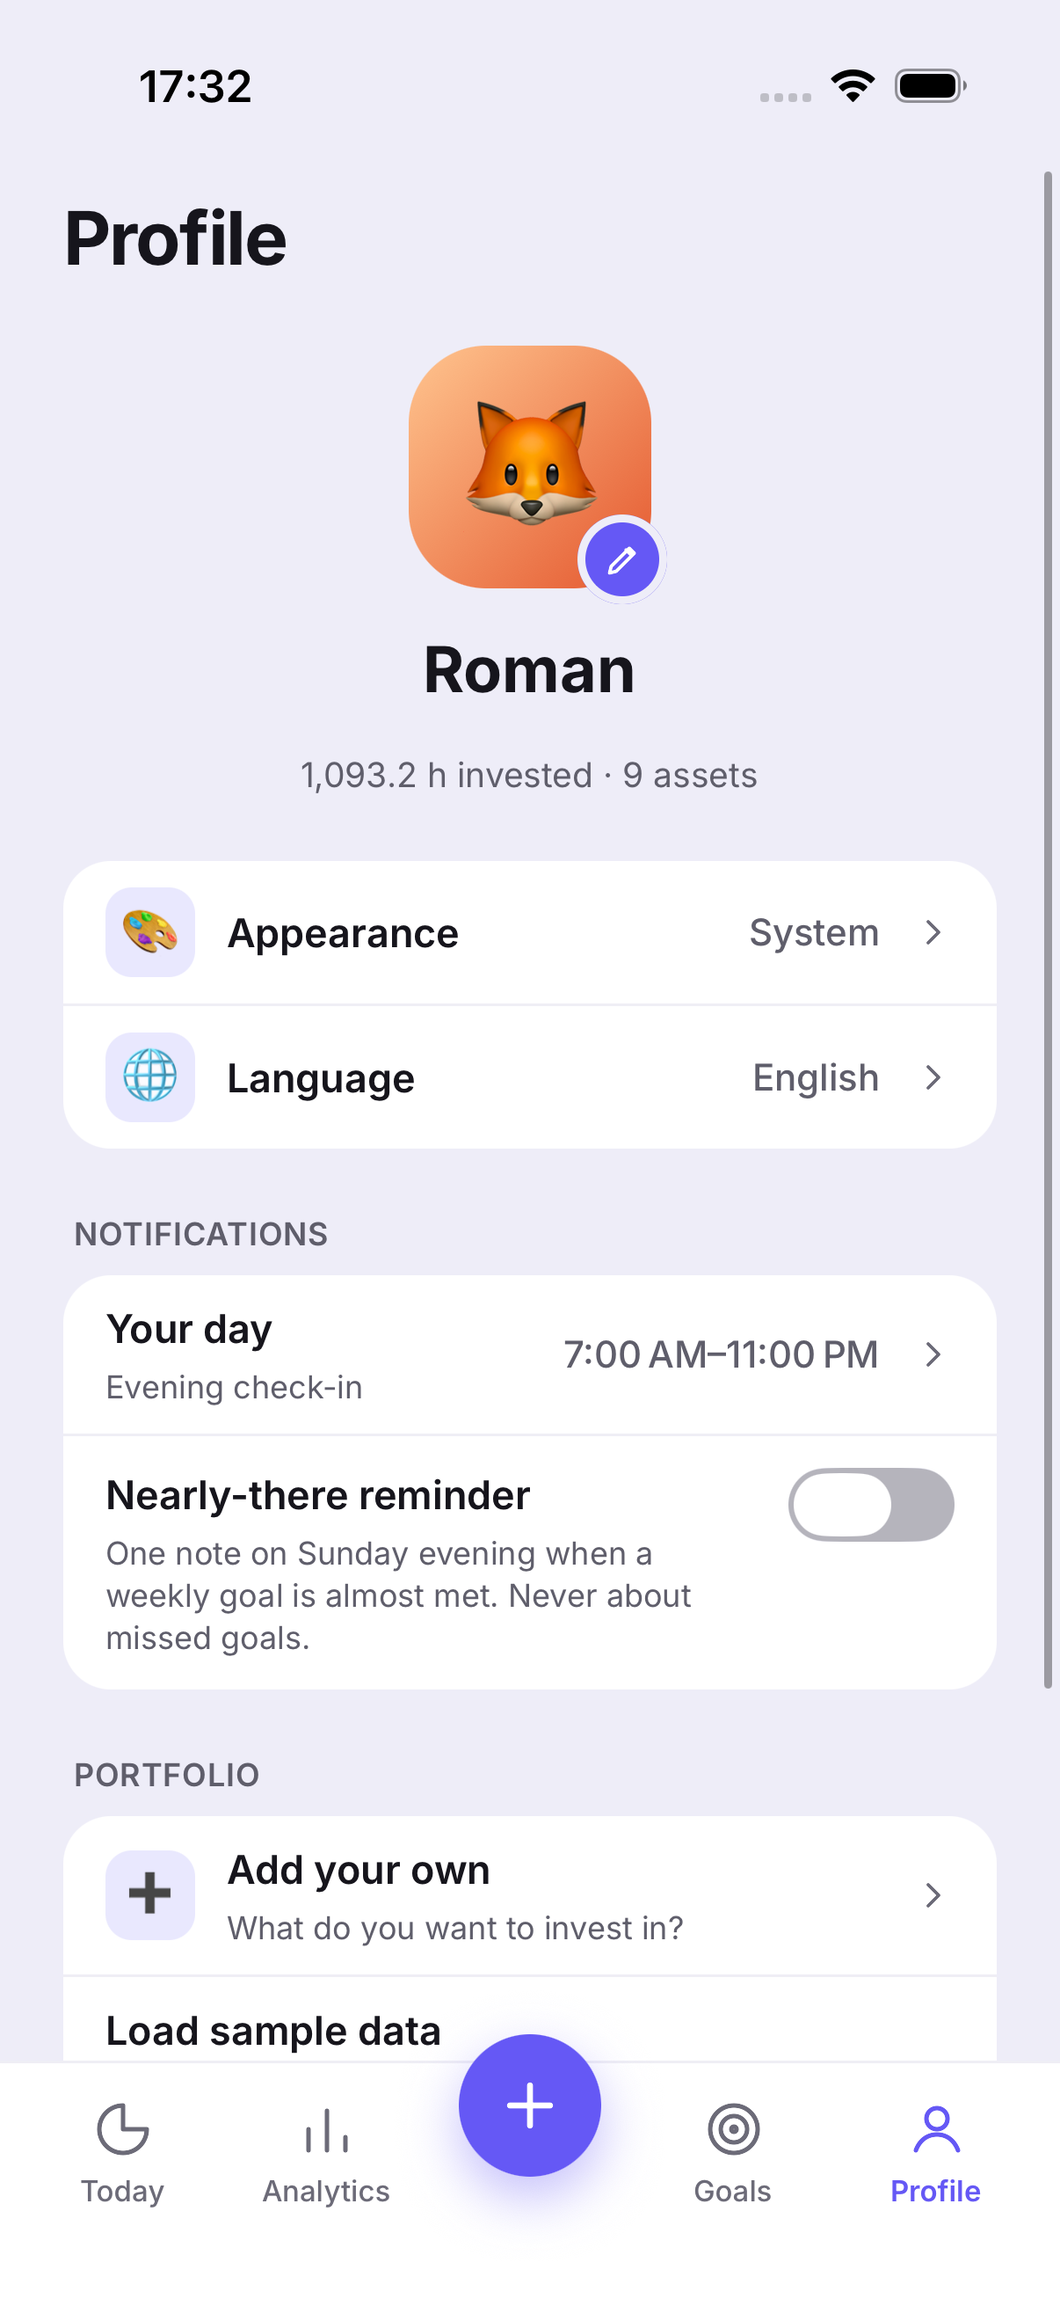
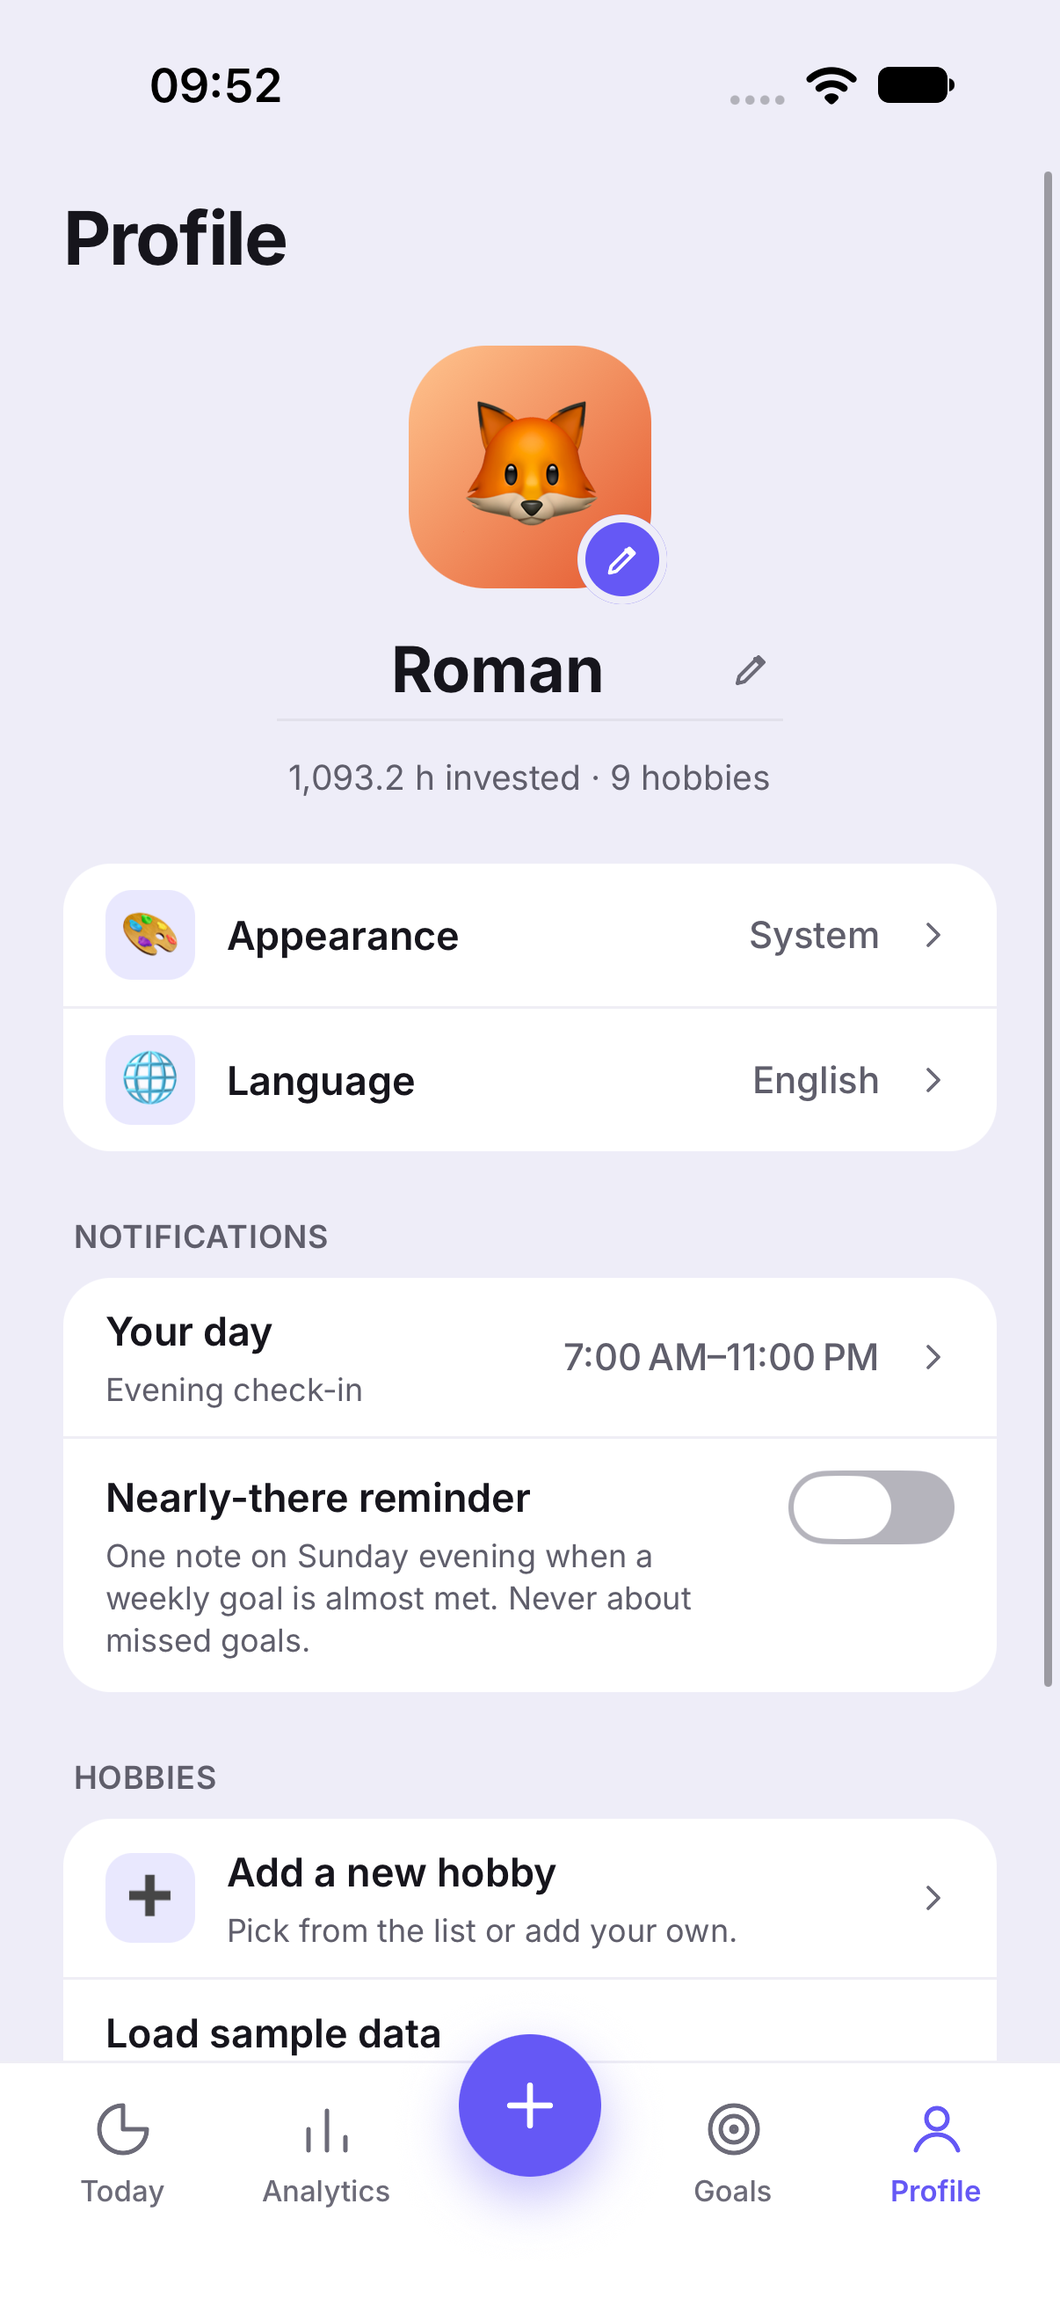
README refresh: new screenshots, achievements, planner as it is now
Every screenshot retaken on the iPhone 18 Pro simulator; new ones for
the today sheet, Achievements, a badge and a week recap; the congrats
GIF recorded again. The text follows the app: the plan is proposed
straight away with drag and drop and optional free time, goals are pace
bars, hobbies instead of assets, iOS and Android.

Maestro: start-over.yaml resets a set-up app; onboarding.yaml walks the
goal wheel and no longer looks for the scene picker; tour.yaml opens the
planner by deep link (Edit plan on Goals now edits in place) and covers
the today sheet and Achievements. scripts/readme-shots.sh runs the
flows, gathers the shots (Maestro 2 writes them under its own output
dir) and renders the GIF; CLAUDE.md and PLAN.md say so.

diff --git a/README.md b/README.md
@@ -7,7 +7,7 @@
 <p align="center">
   <b>Your time, invested.</b><br>
   A time portfolio for people with many hobbies. Every hobby is an asset, hours are the currency, and rest counts as an investment too.<br>
-  <sub>iOS · English, Українська, Polski · local-first, no account</sub>
+  <sub>iOS and Android · English, Українська, Polski · local-first, no account</sub>
 </p>
 
 <p align="center">
@@ -35,37 +35,39 @@ Hourfolio does the opposite. It shows how your time is spread across everything 
 | **Momentum** | Recent activity on a 0–100 scale. It fades during a break but never drops below 20, and it decays at each hobby's own rhythm (daily, a few times a week, weekly, whenever). |
 | **Recovery** | In every portfolio. Rest days show up as their own thing, not as gaps. |
 | **Energy balance** | Your time split into body, creative, mind and recovery. |
-| **Weekly goals** | Optional. Progress is drawn as a small scene, like a tree growing or a dog running to its bone, and it only ever moves forward. |
-| **Weekly plan** | Optional. Spreads your weekly goals over the days you are free, so you know what to do when. |
+| **Weekly goals** | Optional. Each goal shows the week as a pace bar: seven day segments and a thin marker for an even pace today. Missing one changes nothing. |
+| **Weekly plan** | Optional. The week is proposed from your goals straight away, so you know what to do when. Drag a session to another day. |
+| **Achievements** | Every finished week, and badges such as "Rest counts" or "100 hours invested". A badge, once earned, stays. |
 
 ## A tour
 
 ### Today and this week
-The first screen shows today and this week, not a chart. It has what you did today, a row of one-tap tiles for what you usually do, your plan for the week (a progress bar, hours for each day and today's sessions as tiles in each hobby's color), and every asset with its capital. Weekly goals live on the Goals tab. On an empty morning it asks "What are you investing in today?" instead of showing a zero.
+The first screen shows today and this week, not a chart. The Today card has what you did today against today's plan, hobby by hobby; tap it to see every entry, make one longer or shorter, or delete it. Below are one-tap tiles for what you usually do, your plan for the week (a progress bar, hours for each day and today's sessions as tiles in each hobby's color), and every hobby with its capital. A button opens last week's recap. Weekly goals live on the Goals tab as pace bars. On an empty morning it asks "What are you investing in today?" instead of showing a zero.
 
 <p align="center">
   <img src="docs/screenshots/today.png" width="200" alt="Today screen">
-  <img src="docs/screenshots/goals.png" width="200" alt="Goals: weekly scenes, the week's plan and milestone cards with capital and progress">
-  <img src="docs/screenshots/asset.png" width="200" alt="Asset detail: capital, momentum, hours per week">
+  <img src="docs/screenshots/today-modal.png" width="200" alt="Today's entries: each hobby with its sessions, minus and plus to adjust, and what is still planned">
+  <img src="docs/screenshots/goals.png" width="200" alt="Goals: weekly goals as pace bars, achievements and the week's plan">
+  <img src="docs/screenshots/asset.png" width="200" alt="Hobby detail: capital, momentum, hours per week">
 </p>
 
 ### Plan your week
-Tell the app how much time you can give each day and it spreads your weekly goals over those days. Say you want 5 hours of CrossFit, 3 of guitar and 2 of DJing, and weekends are busy: CrossFit goes on every weekday, the rest is mixed in around it, and something is planned each day. Free weekends get the longer sessions instead.
+Open the planner and the week is already laid out: your weekly goals spread over the days ahead, weekends lighter, something planned each day. Say you want 6 hours of coding, 4 of CrossFit and 3 of guitar: coding goes on most days and the rest is mixed in around it. There is nothing to fill in first.
 
 - **Sessions fit the activity:** reading splits into short 20–30 minute bites, a workout gets a longer block, and a big goal stretches the sessions rather than losing time.
-- **Rhythm:** the same asset isn't put on back-to-back days when it can be avoided. Each asset can be limited to some weekdays (CrossFit not on weekends) in its editor.
-- **Rest is optional:** add recovery minutes if you want them, or leave them out.
-- **Adjust before saving:** move a session a day earlier or later, or remove it.
-- **No guilt:** time that doesn't fit is just said plainly, and a missed session quietly moves on when you re-plan the rest of the week.
-- **Where it shows:** Today has the week as a strip with each day's hours, and today's sessions as tiles with a "Log" chip. Goals has the whole plan, with "Re-plan the rest" and "Edit plan" buttons. Without a plan, Today offers to make one. On a Sunday it plans the next week.
-- **Goals and plan stay in step:** after you change weekly goals, the app offers to re-plan the rest of the week.
+- **Rhythm:** the same hobby isn't put on back-to-back days when it can be avoided. Each hobby can be limited to some weekdays (CrossFit not on weekends) in its editor.
+- **Drag and drop:** drag a session by its grip to another day. The same hobby on one day adds up (30 m + 30 m = 1 h). Each session can be resized or removed, and each day has a + to put a hobby back on it.
+- **Free time is optional:** "Adjust free time" opens the hours each day has and how much rest to plan. Leave it closed and the plan decides.
+- **No guilt:** time that doesn't fit is just said plainly, on the plan and on Goals, and a missed session quietly moves on when you re-plan the rest of the week.
+- **Where it shows:** Today has the week as a strip with each day's hours, and today's sessions as tiles with a "Log" chip. Goals has the whole plan, with "Edit plan" and "Plan next week" buttons. Without a plan, Today offers to make one. From Friday it offers next week.
+- **Goals and plan stay in step:** after you change weekly goals, the app offers to re-plan the rest of the week. A session counts as done once its time is logged that day.
 - **Reminder (optional):** one note in the late afternoon about what is planned and not done yet, for today and tomorrow.
 
 <p align="center">
   <img src="docs/screenshots/today-plan.png" width="200" alt="Today: the week as a strip with the sessions planned for today">
-  <img src="docs/screenshots/plan-free.png" width="200" alt="Plan your week: free time for each day">
-  <img src="docs/screenshots/plan-result.png" width="200" alt="The plan: sessions spread over the week, each can be moved or removed">
-  <img src="docs/screenshots/goals-plan.png" width="200" alt="Goals: the whole week's plan with a re-plan button">
+  <img src="docs/screenshots/plan-result.png" width="200" alt="The plan: sessions spread over the week, each one can be dragged to another day, resized or removed">
+  <img src="docs/screenshots/plan-free.png" width="200" alt="Adjust free time: hours for each day and rest, under the plan">
+  <img src="docs/screenshots/goals-plan.png" width="200" alt="Goals: the whole week's plan with Edit plan and Plan next week">
 </p>
 
 ### Analytics
@@ -80,21 +82,32 @@ The charts live one tab over:
 </p>
 
 ### Goals you want to share
-Finishing a weekly goal opens a congrats screen with confetti and a share card, rendered as a PNG for Telegram, Threads, Instagram or anywhere else. There's also a "My week" card.
+Finishing a weekly goal opens a congrats screen with confetti and a share card, rendered as a PNG for Telegram, Threads, Instagram or anywhere else. There's also a "My week" card, from Goals or from any week's recap.
 
 <p align="center">
   <img src="docs/screenshots/goal-met.gif" width="200" alt="Congrats animation">
   <img src="docs/screenshots/share-week.png" width="200" alt="Share my week card">
 </p>
 
+### Achievements
+Weeks are the unit of progress. Goals has a slim Achievements card, and behind it every finished week with your time in it, grouped by month, and a shelf of badges: eight fixed ones (first hour, first full week, 10 and 20 hours in a week, rest on three days of a week, every hobby in one week, a plan done start to finish, 100 hours invested) plus hour marks for each hobby (50, 200, 500 and 1000 h). A week opens its recap: time invested, goals met, planned sessions done, the hobby with most time, rest days, the badges earned that week, and a Share button. A badge says how it was earned and links to its week.
+
+Badges still ahead are named and explained, with no countdown or progress bar. A badge once earned stays, whatever happens to the logs later. A short week reads "2 of 3", in grey, never red.
+
+<p align="center">
+  <img src="docs/screenshots/achievements.png" width="200" alt="Achievements: time over finished weeks, badges earned and still ahead, and every finished week">
+  <img src="docs/screenshots/badge.png" width="200" alt="A badge: how it was earned and the week it belongs to">
+  <img src="docs/screenshots/week.png" width="200" alt="A week's recap: time invested, goals met, sessions done, badges earned">
+</p>
+
 ### Make it yours
 - **Profile:** a preset character or your own photo as your picture.
 - **Appearance:**
   - light, dark or system mode;
-  - any accent color from the full iOS color picker;
+  - any accent color from the system color picker;
   - any page color, with text and cards adjusting to stay readable;
   - eight background patterns.
-- **Assets:** each one can show an icon, an emoji (a full picker with search in all three languages) or a photo of your own guitar.
+- **Hobbies:** each one can show an icon, an emoji (a full picker with search in all three languages) or a photo of your own guitar.
 - **Units:** hours, minutes and days keep their colors whatever you pick.
 
 <p align="center">
@@ -113,7 +126,7 @@ Holidays dress the app up. From mid-October the accent turns pumpkin, the scenes
 ### Onboarding and gentle reminders
 0. Three quick looks at the app after a few months of use: plan your week, see your progress, see your investment. Swipe through or skip.
 1. Pick from 35 activities or add your own.
-2. Tune each one: an optional weekly goal first (half-hour steps, with a live preview of its scene), then a picture (an icon from the app, an emoji or your own photo), color, energy type and how often you do it. "Set up the rest later" skips to the next step. Every hobby starts at zero hours.
+2. Tune each one: an optional weekly goal first (an hours-and-minutes picker), then a picture (an icon from the app, an emoji or your own photo), color, energy type and how often you do it. "Set up the rest later" skips to the next step. Every hobby starts at zero hours.
 3. Tell the app when your day starts and ends.
 4. Add a name, picture and color (optional).
 
@@ -133,7 +146,7 @@ The app starts in your phone's language (English if it isn't one of the three) a
 
 <p align="center">
   <img src="docs/screenshots/setup.png" width="180" alt="Setting up a hobby: picture, color, energy type and rhythm">
-  <img src="docs/screenshots/setup-goal.png" width="180" alt="Setting a weekly goal and choosing the tree scene">
+  <img src="docs/screenshots/setup-goal.png" width="180" alt="Setting a weekly goal: hours and minutes wheels">
   <img src="docs/screenshots/day.png" width="180" alt="Your day: wake and bed times, reminders">
   <img src="docs/screenshots/you.png" width="180" alt="Make it yours: name, picture, color">
 </p>
@@ -145,7 +158,8 @@ Expo SDK 57 · React Native 0.86 · expo-router · TypeScript (strict) · Restyl
 ```
 src/
   domain/      pure logic, unit-tested: growth (capital, momentum), stats, goals and scenes,
-               the weekly planner, the day and reminders, seasons, colors and contrast, emoji search
+               the weekly planner, the week recap and achievements, the day and reminders,
+               seasons, colors and contrast, emoji search
   store/       zustand stores persisted to MMKV
   i18n/        EN / UK / PL, checked for missing keys and plural forms
   theme/       buildTheme({ mode, accent, page }); fixed colors for hours, minutes and days
@@ -158,12 +172,13 @@ e2e/           Maestro flows, which also take the screenshots in this README
 
 ## Run it
 
-You need [mise](https://mise.jdx.dev) (it pins Node 22 and bun), Xcode and an iOS simulator. MMKV needs native code, so this runs as a dev build, not in Expo Go.
+You need [mise](https://mise.jdx.dev) (it pins Node 22 and bun) and Xcode with an iOS simulator, or Android Studio with an emulator. MMKV needs native code, so this runs as a dev build, not in Expo Go.
 
 ```sh
 mise install
 mise exec -- bun install
-mise exec -- bun run ios        # build and launch on the simulator
+mise exec -- bun run ios        # build and launch on the iOS simulator
+mise exec -- bun run android    # the same on an Android emulator
 mise exec -- bun run test       # unit tests
 mise exec -- bun run typecheck
 mise exec -- bun run lint
@@ -171,7 +186,7 @@ mise exec -- bun run lint
 
 To try it with data, go to Profile → Load sample data (it includes a plan for the week).
 
-End-to-end flows run with [Maestro](https://maestro.dev): `maestro test e2e/onboarding.yaml`, then `e2e/tour.yaml` (it loads sample data and saves screenshots to `e2e/screenshots/`).
+End-to-end flows run with [Maestro](https://maestro.dev): `maestro test e2e/onboarding.yaml` (on an app that is already set up, run `e2e/start-over.yaml` first), then `e2e/tour.yaml` (it loads sample data and takes the screenshots). `scripts/readme-shots.sh <simulator udid>` runs both, copies the screenshots into `docs/screenshots/` and records the congrats GIF.
 
 ## Built with AI
 
@@ -180,7 +195,7 @@ This app is also a hands-on way to learn AI-assisted development with Claude Cod
 | Piece | Where | What it does here |
 |---|---|---|
 | Project memory | [`CLAUDE.md`](CLAUDE.md) | Commands, layout and product rules such as "no guilt" and "tokens, never hex" |
-| Skills | [`.claude/skills/`](.claude/skills) | `new-screen` (how a screen is built in this app), `on-device` (build and run on a real iPhone) and `create-pr` (checks and PR description) |
+| Skills | [`.claude/skills/`](.claude/skills) | `new-screen` (how a screen is built in this app), `on-device` (build and run on a real iPhone), `ota-update` (ship a JS-only update) and `create-pr` (checks and PR description) |
 | Hooks | [`.claude/settings.json`](.claude/settings.json) | Lint and typecheck after every edit, so mistakes come back straight away |
 | MCP | [`.mcp.json`](.mcp.json) | Maestro, so Claude can drive the simulator, check screens and take these screenshots |
 | Subagents | in the session | Research on how other apps design their first screen, run in the background |

diff --git a/CLAUDE.md b/CLAUDE.md
@@ -12,6 +12,7 @@ Run through mise so Node 22 and bun 1.3.14 are used:
 - Real iPhone: `mise exec -- bunx expo run:ios --device <udid>` (UDID from `xcrun devicectl list devices`), then launch it pointed at Metro. Signed with the free personal team, so installs expire after 7 days.
 - Cloud builds (EAS, paid Apple team): `mise exec -- bunx eas-cli build -p ios --profile staging` (bundle id `.stg`, installs next to production) or `--profile production`, then `eas-cli submit -p ios --profile <same>` to TestFlight. `app.config.ts` reads `APP_VARIANT` from `eas.json`; local builds are the plain app signed by the free team.
 - Add Expo packages with `mise exec -- bunx expo install <pkg>`
+- README screenshots and GIF: `scripts/readme-shots.sh <simulator udid>` runs the Maestro flows in `e2e/` on a simulator that shows the welcome screen in English (fresh install, or `e2e/start-over.yaml`) and copies the shots into `docs/screenshots/`.
 
 ## CI
 `.github/workflows/ci.yml` runs typecheck, lint and test on every pull request and on pushes to main (Node and bun versions come from `mise.toml`). It builds nothing; cloud builds are the EAS commands above.
@@ -29,11 +30,11 @@ Builds listen on a channel (`staging` or `production`, set per profile in `eas.j
 - `.claude/skills/create-pr`: checks, commit style and PR description for a PR to main.
 
 ## Layout
-- `src/domain/`: pure logic, fully unit-tested. `growth.ts` (capital never decreases; momentum decays toward a floor of 20, half-life set by the asset's rhythm), `stats.ts` (periods, allocation, energy balance, heatmap), `catalog.ts` (onboarding presets), `plan.ts` (the weekly planner: spreads weekly goals over free days; `planWeek`, `autoPlan` (no free time asked), `replanWeek`, `mergeMove` (same hobby on one day adds up), `dayProgress`, `planReminders`).
+- `src/domain/`: pure logic, fully unit-tested. `growth.ts` (capital never decreases; momentum decays toward a floor of 20, half-life set by the asset's rhythm), `stats.ts` (periods, allocation, energy balance, heatmap), `catalog.ts` (onboarding presets), `plan.ts` (the weekly planner: spreads weekly goals over free days; `planWeek`, `autoPlan` (no free time asked), `replanWeek`, `mergeMove` (same hobby on one day adds up), `dayProgress`, `planReminders`), `week.ts` (one week in numbers for the recap sheet), `achievements.ts` (finished weeks with goals met, badge rules and the hour marks per hobby; earned badges are kept in the portfolio store so they are never lost).
 - `src/store/`: zustand persisted to MMKV (`portfolio-store`, `settings-store`); `onboarding-store` is in-memory.
 - `src/i18n/`: EN/UK/PL as typed TS objects. `en.ts` is the source; other locales must have every key plus the plural forms their language needs (`i18n.test.ts` enforces both).
 - `src/theme/theme.ts`: `buildTheme({ mode, accent, page })` builds the Restyle theme at runtime (`src/lib/appearance.ts` feeds it from settings and the holiday season). Use tokens, never hex: `accent`/`onAccent`/`accentInk`/`accentSoft` for UI chrome, `palette` for asset colors. The `hours` tokens are the accent itself (charts, deltas, heatmap follow the user's pick). `Duration` shows hours in ink and highlights the minutes (accent, or the asset's color); the `days` token (teal) is for rest and met goals. Font is Inter.
-- `src/app/`: expo-router screens: `onboarding/*`, `(tabs)/*` (portfolio, analytics, goals, profile), `asset/[id]`, and the modals `log`, `today`, `plan-week`, `goals-edit`, `asset-edit`, `avatar`, `language` (sheet), `congrats`, `share-week`, plus the pushed `appearance` screen.
+- `src/app/`: expo-router screens: `onboarding/*`, `(tabs)/*` (portfolio, analytics, goals, profile), `asset/[id]`, and the modals `log`, `today`, `plan-week`, `goals-edit`, `asset-edit`, `avatar`, `language` (sheet), `congrats`, `share-week`, `week` (a week's recap), `badge` (sheet), plus the pushed `appearance` and `achievements` screens.
 
 ## Rules
 - No guilt: never show a loss in red, no streaks. Declines are grey; paused assets say "paused".
